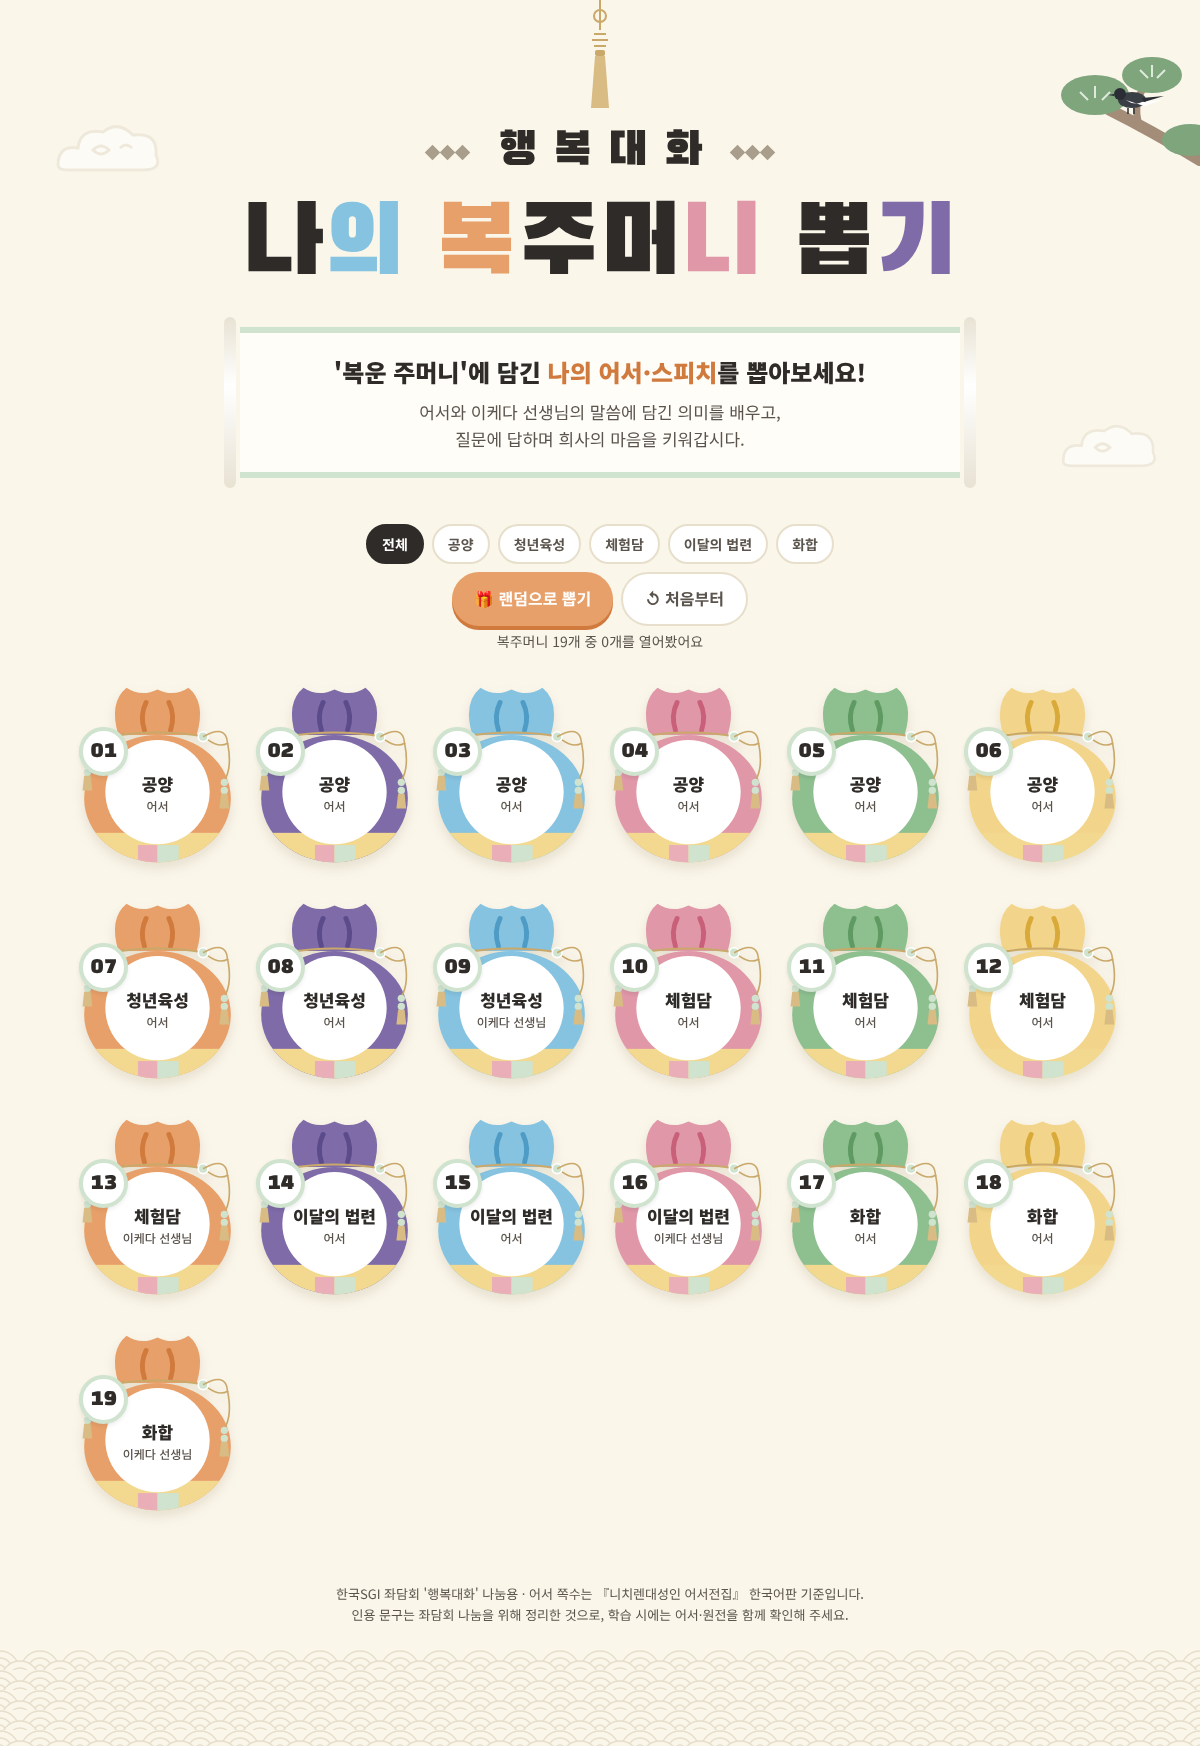
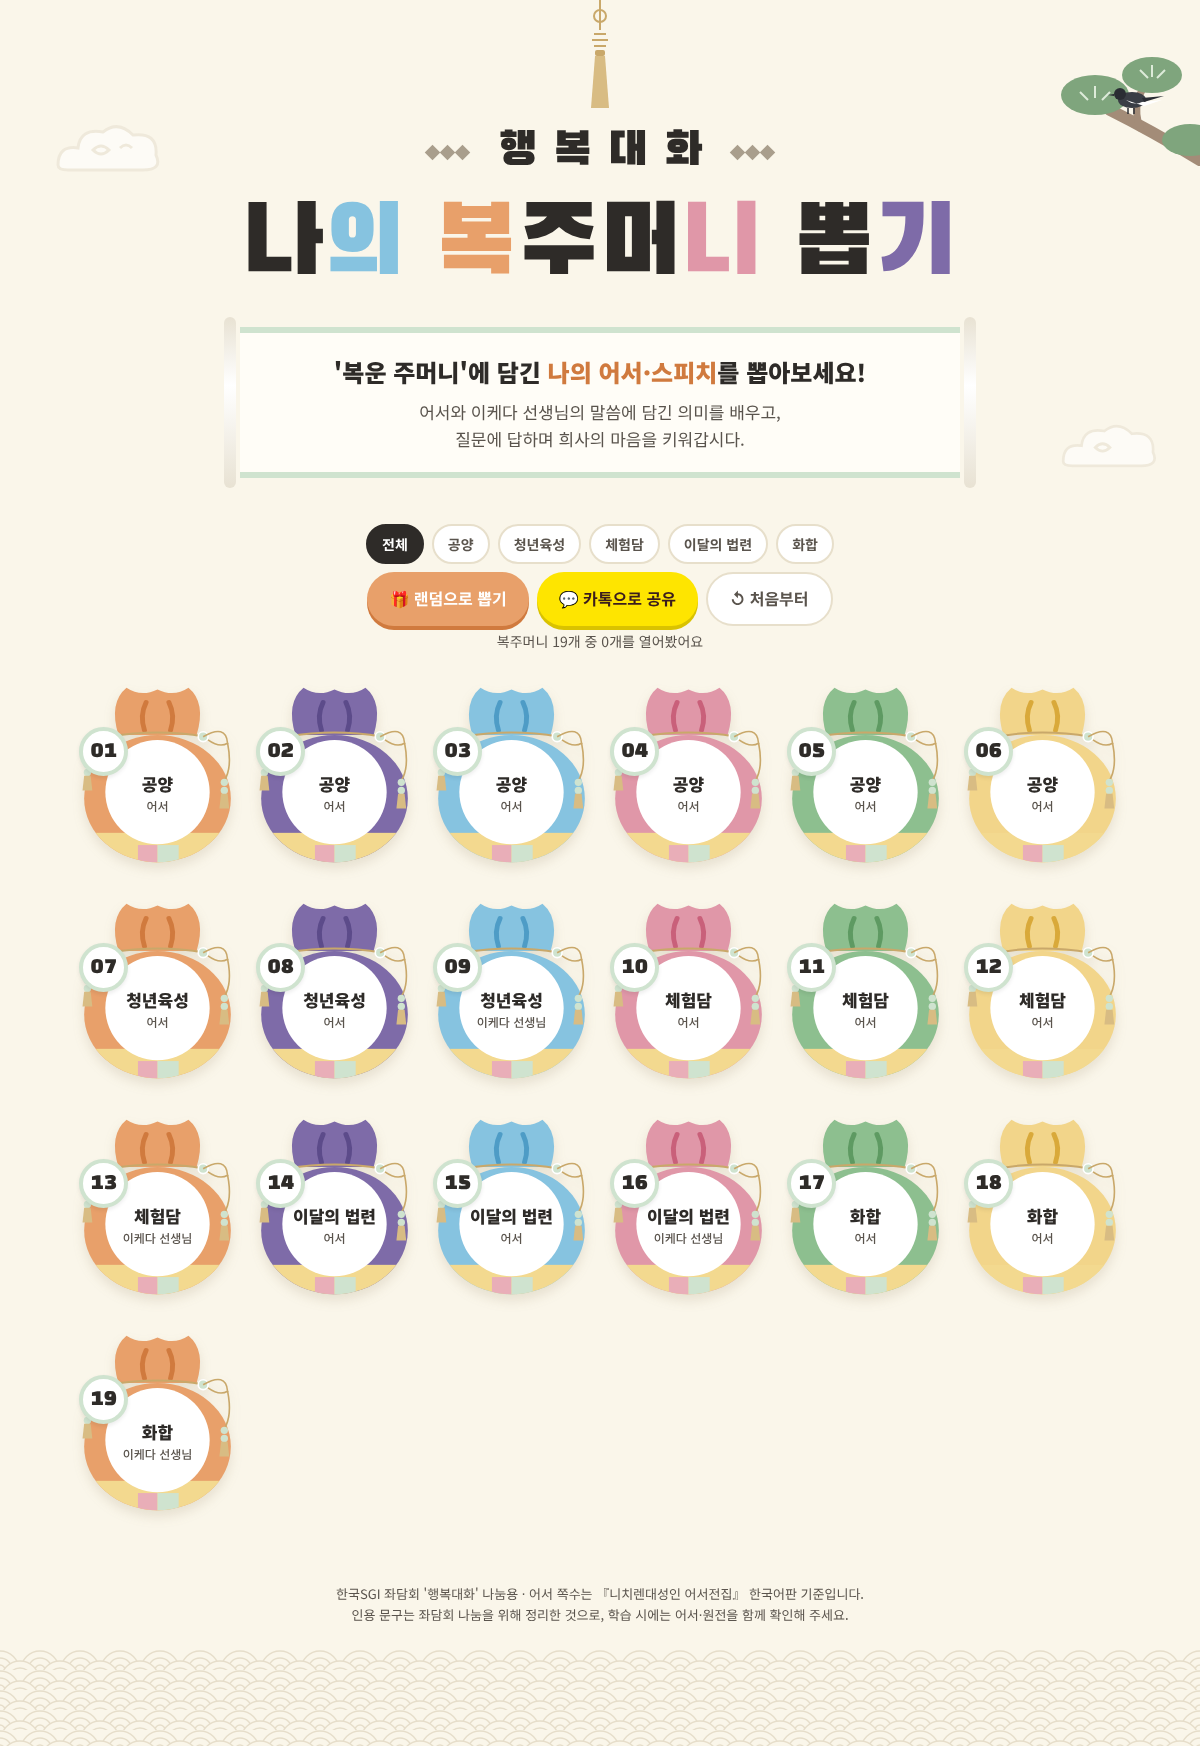
팝업의 카톡용 텍스트 복사 버튼 삭제
Claude-Session: https://claude.ai/code/session_01J4ueZKiFrBe7MKipYhFKJe

Changed region(s): [[0.3083, 0.3093, 0.6783, 0.3711]]

diff --git a/index.html b/index.html
@@ -215,7 +215,6 @@
     <div class="m-body"><p id="mText"></p></div>
     <div class="m-q"><span class="qb">Q</span><strong id="mQ"></strong></div>
     <div class="m-foot">
-      <button class="btn btn-kakao" id="mCopy">💬 카톡용 텍스트 복사</button>
       <button class="btn btn-main" id="mNext">🎁 다른 주머니 뽑기</button>
       <button class="btn btn-sub" id="mDone">닫기</button>
     </div>
@@ -425,7 +424,6 @@ let lastFocus = null;
 
 function openPouch(i){
   const p = POUCHES[i];
-  currentIdx = i;
   const [c, cd] = colorOf(i);
   modal.style.setProperty("--c", c);
   modal.style.setProperty("--cd", cd);
@@ -535,12 +533,6 @@ document.getElementById("shareBtn").addEventListener("click", async () => {
   copy(`${text}\n${url}`, "링크를 복사했어요. 카톡 대화창에 붙여넣어 주세요.");
 });
 
-let currentIdx = null;
-document.getElementById("mCopy").addEventListener("click", () => {
-  const p = POUCHES[currentIdx]; if (!p) return;
-  const text = `🎁 행복대화 복주머니 ${pad(currentIdx + 1)}\n\n「${p.quote}」\n(${p.source})\n\n${p.text}\n\nQ. ${p.q}\n\n👉 ${pageUrl()}`;
-  copy(text, "복사했어요. 카톡 대화창에 붙여넣어 주세요.");
-});
 
 renderTabs();
 renderGrid();

diff --git a/README.md b/README.md
@@ -33,7 +33,6 @@
 ## 카톡으로 보내기
 
 - 화면의 **💬 카톡으로 공유** 버튼: 휴대폰에서는 공유창이 열려 카카오톡을 바로 고를 수 있고, 안 되면 링크가 복사됩니다.
-- 복주머니 팝업의 **💬 카톡용 텍스트 복사**: 어서·출처·해설·질문을 메시지 형태로 복사합니다. 단톡방에 그대로 붙여넣으면 됩니다.
 - 카톡 링크 미리보기(제목·설명·이미지)는 `og:` 메타 태그로 나옵니다. 배포 후 `index.html`의 `og:image`를
   `https://(배포주소)/og-image.png` 같은 절대주소로 바꾸면 미리보기에 이미지가 표시됩니다.
 - 공유 주소를 고정하려면 `index.html`의 `SHARE_URL`에 배포 주소를 넣으세요.
